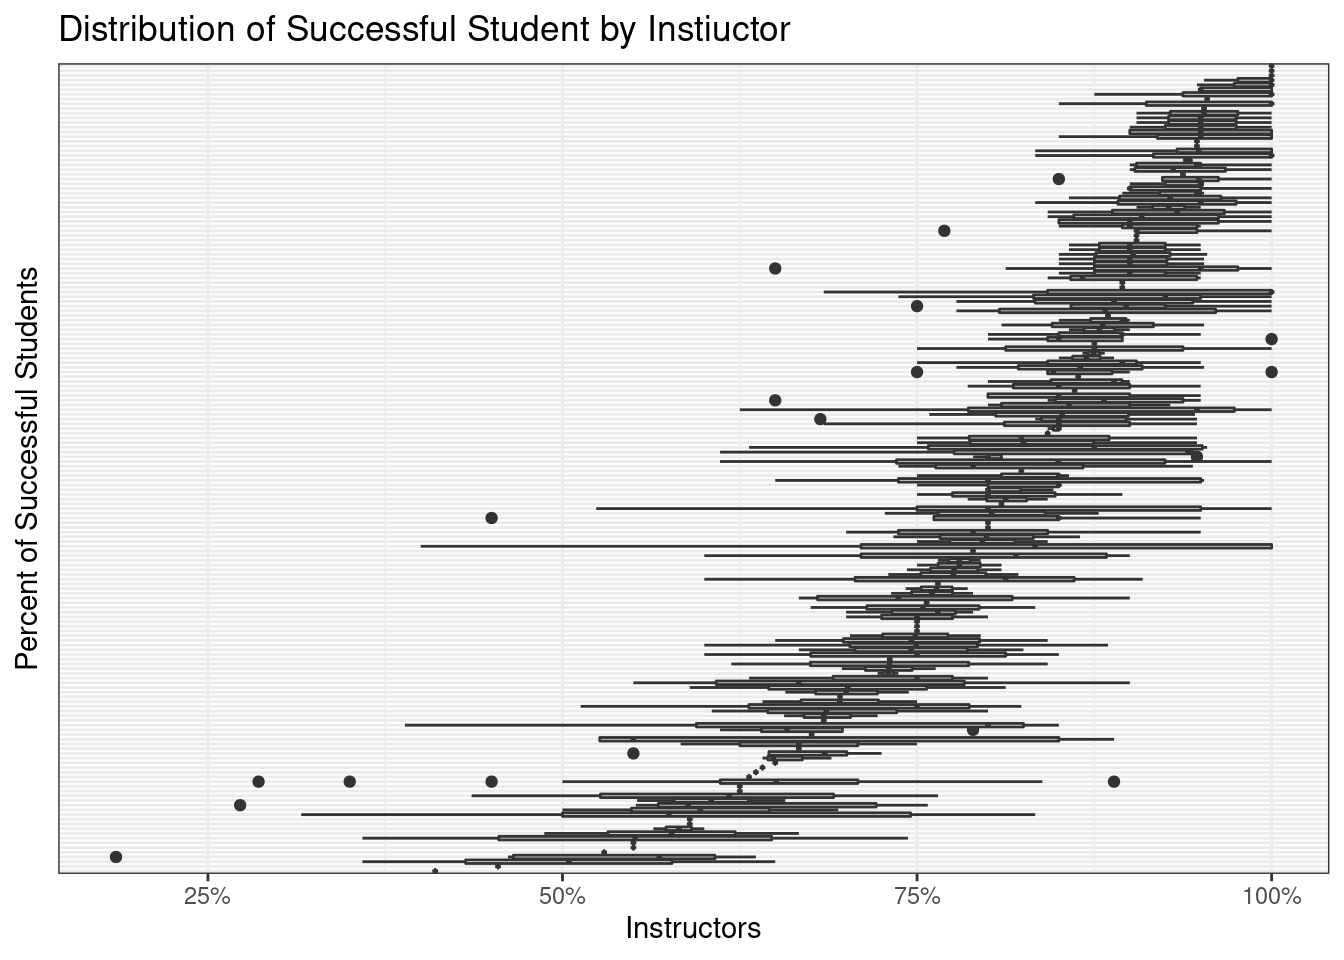
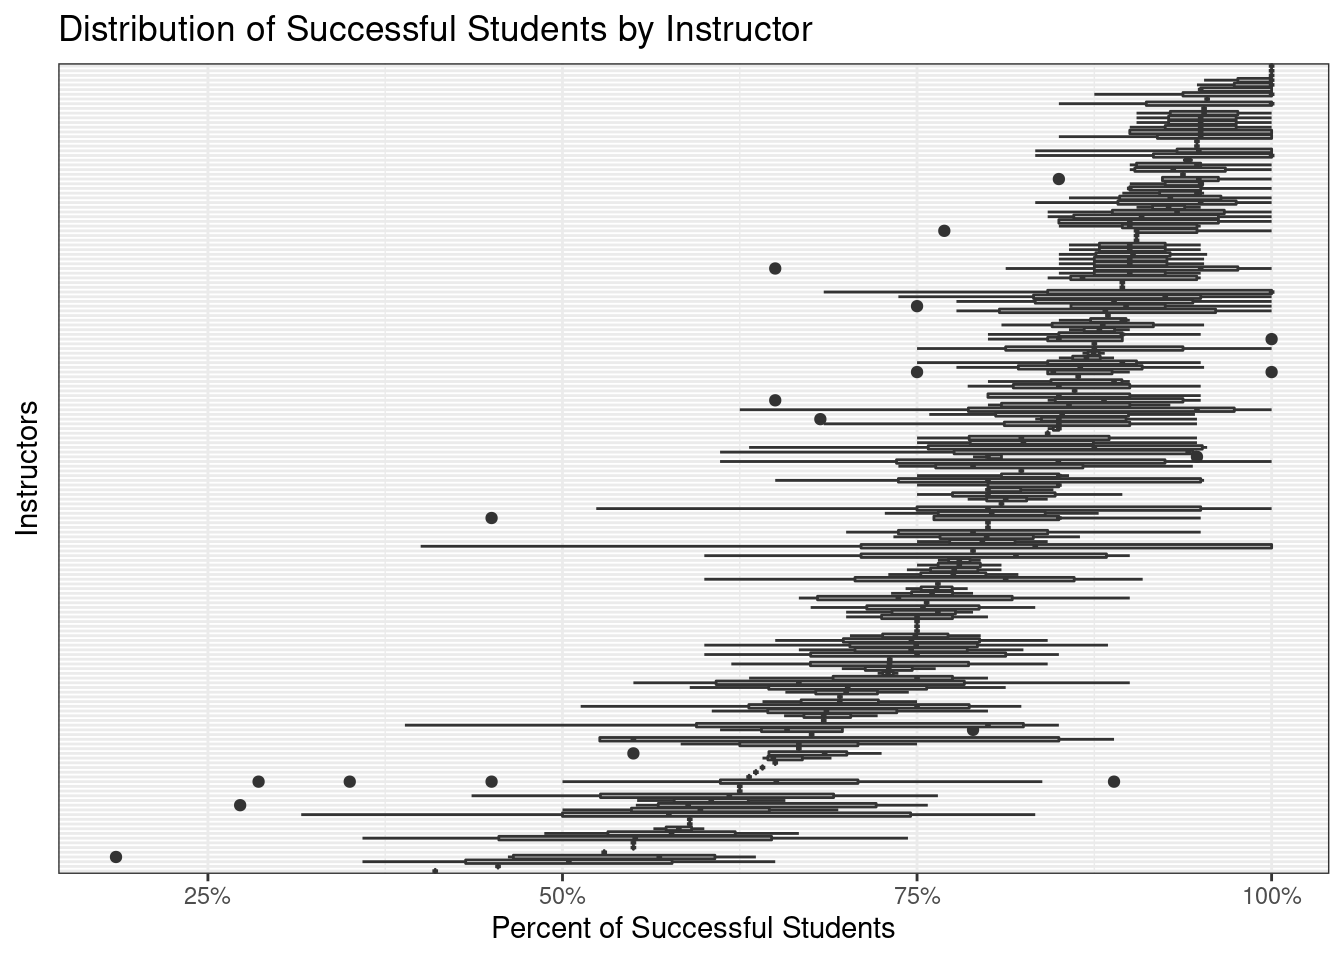
frequent teaching

Changed region(s): [[0.375, 0.9375, 0.6562, 1.0], [0.0, 0.2812, 0.0312, 0.6875], [0.4375, 0.0, 0.5938, 0.0625]]

diff --git a/content/post/2022-05-23-does-teaching-frequently-the-course-improve-instructor-performance-over-time/index.html b/content/post/2022-05-23-does-teaching-frequently-the-course-improve-instructor-performance-over-time/index.html
@@ -1,0 +1,115 @@
+---
+title: Does teaching frequently the course improve instructor performance over time?
+author: Kent Orr
+date: '2022-05-23'
+slug: does-teaching-frequently-the-course-improve-instructor-performance-over-time
+categories: []
+tags: []
+---
+
+
+
+<div id="defining-the-problem" class="section level2">
+<h2>Defining the Problem</h2>
+<p>We have already established that some instructors perform better than others. Now we want to answer if the number of <code>term_id</code>’s an <code>instructor_id_number</code> is associated with a <code>class_nbr</code> is related to student success rates. I will use the same merge of <code>course_enrollments</code> and <code>class_instructors</code> used to detect variation in instructor performance rates, as well as <code>class_inventory</code> to derive the number of similar courses each instructor has taught by <code>subject</code> and <code>catalog</code> number.</p>
+<p>There are some courses in the catalog that did not show up in enrollments. Likely these courses made it to roster but were not in session. They will be removed.</p>
+<p>Some courses had every student drop or otherwise fail. They will be removed</p>
+<pre class="r"><code>never_enrolled &lt;- setdiff(class_inventory$class_nbr, course_enrollments$class_nbr)
+all_drops = course_enrollments[,.SD[all(success == FALSE)], class_nbr]$class_nbr |&gt; unique()
+rm_nbrs &lt;- c(never_enrolled, all_drops)
+
+course_enrollments &lt;- course_enrollments[!class_nbr %in% rm_nbrs]
+class_inventory &lt;- class_inventory[!class_nbr %in% rm_nbrs]
+class_instructors &lt;- class_instructors[!class_nbr %in% rm_nbrs]
+
+sections &lt;- class_inventory[
+            ,merge(.SD, class_instructors, 
+                       on = c(&quot;class_nbr&quot;, &quot;instructor_id_number&quot;))
+                ][order(term_code, semester)
+                  ][,sections_taught := .SD[,.I], 
+                    .(instructor_id_number, subject, catalog_nbr)][]
+
+instructor_success &lt;- merge(class_instructors, on = c(&quot;term_code&quot;, &quot;class_nbr&quot;),
+                            course_enrollments[,.(term_code, class_nbr, official_grade,
+                            student_id_number,
+                            success)])</code></pre>
+</div>
+<div id="courses-taught-vs.-instructor-success-rate" class="section level2">
+<h2>Courses Taught vs. Instructor Success Rate</h2>
+<p>Fortunately for us, this data set has one-horse ponies all around. Each instructor has only taught a single course section.</p>
+<pre class="r"><code>sections[,.N, sections_taught][order(N)] |&gt;
+  ggplot(aes(x = sections_taught, y = N)) +
+  geom_point() +
+  theme_bw() +
+  labs(x = &quot;Consecutive Section Number&quot;, y = &quot;Instructors&quot;)</code></pre>
+<p><img src="{{< blogdown/postref >}}index_files/figure-html/unnamed-chunk-2-1.png" width="672" /></p>
+<pre class="r"><code>sections &lt;- sections[sections_taught &lt;= 7]</code></pre>
+<p>There is a very low response rate of fewer than 14 instructors past consecutive section #7. I will remove those courses from the data.</p>
+<pre class="r"><code>sec_rates &lt;-
+sections[,merge(.SD, instructor_success, on = c(&quot;instructor_id_number&quot;, &quot;class_nbr&quot;))
+][,.(student_outcomes = .N), .(instructor_id_number = instructor_id_number.x, sections_taught, success)
+           ][,percent := student_outcomes/sum(student_outcomes), 
+             .(instructor_id_number, sections_taught)
+             ][(success)]
+
+sec_rates |&gt;
+  ggplot(aes(x = ordered(sections_taught), y = percent)) +
+  geom_boxplot() + 
+  theme_bw() + 
+  coord_cartesian(ylim = c(0, 1)) +
+  labs(x = &quot;Sections Taught&quot;, y = &quot;Percent of Successful Students&quot;,
+       title = &quot;Distribution of Success Rates by Consecutive Year Course was Taught&quot;)</code></pre>
+<p><img src="{{< blogdown/postref >}}index_files/figure-html/unnamed-chunk-3-1.png" width="672" /></p>
+<pre class="r"><code>sec_rates |&gt;
+  ggplot(aes(x = sections_taught, y = percent)) +
+  geom_jitter(height = 0, width = .2) + 
+  theme_bw() + 
+  coord_cartesian(ylim = c(0, 1)) +
+  labs(x = &quot;Sections Taught&quot;, y = &quot;Percent of Successful Students&quot;,
+       title = &quot;Distribution of Success Rates by Consecutive Year Course was Taught&quot;)</code></pre>
+<p><img src="{{< blogdown/postref >}}index_files/figure-html/unnamed-chunk-4-1.png" width="672" /></p>
+<pre class="r"><code>sec_rates[sections_taught != 6] |&gt;
+  lm(percent ~ sections_taught, data = _) -&gt; lm_sec
+
+summary(lm_sec)</code></pre>
+<pre><code>## 
+## Call:
+## lm(formula = percent ~ sections_taught, data = sec_rates[sections_taught != 
+##     6])
+## 
+## Residuals:
+##      Min       1Q   Median       3Q      Max 
+## -0.63504 -0.07323  0.02785  0.12469  0.18354 
+## 
+## Coefficients:
+##                 Estimate Std. Error t value Pr(&gt;|t|)    
+## (Intercept)     0.814576   0.012387  65.762   &lt;2e-16 ***
+## sections_taught 0.001883   0.004437   0.424    0.672    
+## ---
+## Signif. codes:  0 &#39;***&#39; 0.001 &#39;**&#39; 0.01 &#39;*&#39; 0.05 &#39;.&#39; 0.1 &#39; &#39; 1
+## 
+## Residual standard error: 0.143 on 484 degrees of freedom
+## Multiple R-squared:  0.0003718,  Adjusted R-squared:  -0.001694 
+## F-statistic:  0.18 on 1 and 484 DF,  p-value: 0.6715</code></pre>
+<pre class="r"><code>copy(sec_rates)[,preds := predict(lm_sec, .SD)] |&gt;
+  ggplot(aes(x = sections_taught, y = percent)) +
+  geom_jitter(height = 0, width = .2) + 
+  geom_line(aes(y = preds, color = &quot;predictions&quot;))+ 
+  theme_bw() + 
+  coord_cartesian(ylim = c(0, 1)) +
+  labs(x = &quot;Sections Taught&quot;, y = &quot;Percent of Successful Students&quot;,
+       title = &quot;Distribution of Success Rates by Consecutive Year Course was Taught&quot;)</code></pre>
+<p><img src="{{< blogdown/postref >}}index_files/figure-html/unnamed-chunk-4-2.png" width="672" /></p>
+<p>Linear regression shows no no evidence that the number of consecutive sections taught by a single instructor can explain the success rates of students. This can be confirmed again visually by plotting the percent success per consecutive section per instructor. The data used to plot included only those who had 3 or more consecutive sections.</p>
+<pre class="r"><code>sec_rates[,.SD[any(sections_taught &gt; 2)], instructor_id_number] |&gt;
+  ggplot(aes(x = sections_taught, y = percent)) + 
+  geom_line() +
+  theme_classic() +
+  theme(axis.text.y = element_blank(),
+        strip.background = element_blank()) +
+  facet_wrap(~instructor_id_number) +
+  labs(title = &quot;Success Rates by Instructor&quot;,
+       x = &quot;sections taught&quot;, y = &quot;percent success&quot;)</code></pre>
+<p><img src="{{< blogdown/postref >}}index_files/figure-html/unnamed-chunk-5-1.png" width="672" /></p>
+<p>There is no evidence that frequently teaching a course improves student success outcomes.</p>
+</div>

diff --git a/content/post/2022-05-23-are-some-instructors-better-than-others/index.html b/content/post/2022-05-23-are-some-instructors-better-than-others/index.html
@@ -27,9 +27,9 @@ tags: []
         axis.ticks.y = element_blank()) +
   coord_flip() + 
   scale_y_continuous(labels = scales::percent_format()) +
-  labs(x = &quot;Percent of Successful Students&quot;,
-       y = &quot;Instructors&quot;,
-       title = &quot;Distribution of Successful Student by Instiuctor&quot;)</code></pre>
+  labs(y = &quot;Percent of Successful Students&quot;,
+       x = &quot;Instructors&quot;,
+       title = &quot;Distribution of Successful Students by Instructor&quot;)</code></pre>
 <p><img src="{{< blogdown/postref >}}index_files/figure-html/unnamed-chunk-3-1.png" width="672" /></p>
 <p>Do we really need a statistical test to determine if some instructors perform better than others?</p>
 <p>I will merge the median success rate for each instructor to the performance ratio data and create two groups, the top 50% and bottom 50%, then use a t-test to test for a difference of means.</p>
@@ -43,7 +43,7 @@ iss_split |&gt;
   ggplot(aes(x = percent, fill = split)) +
   geom_density(alpha = .3) + 
   theme_classic() +
-  labs(x = &quot;Success Rate&quot;, y = &quot;Probability Density&quot;, fill = &quot;Top 50%&quot;)</code></pre>
+  labs(y = &quot;Success Rate&quot;, x = &quot;Probability Density&quot;, fill = &quot;Top 50%&quot;)</code></pre>
 <p><img src="{{< blogdown/postref >}}index_files/figure-html/unnamed-chunk-4-1.png" width="672" /></p>
 <p>If I squint real hard, it looks normal enough for a parametric test.</p>
 <pre class="r"><code>t.test(iss_split[(split)]$percent, iss_split[!(split)]$percent)</code></pre>
